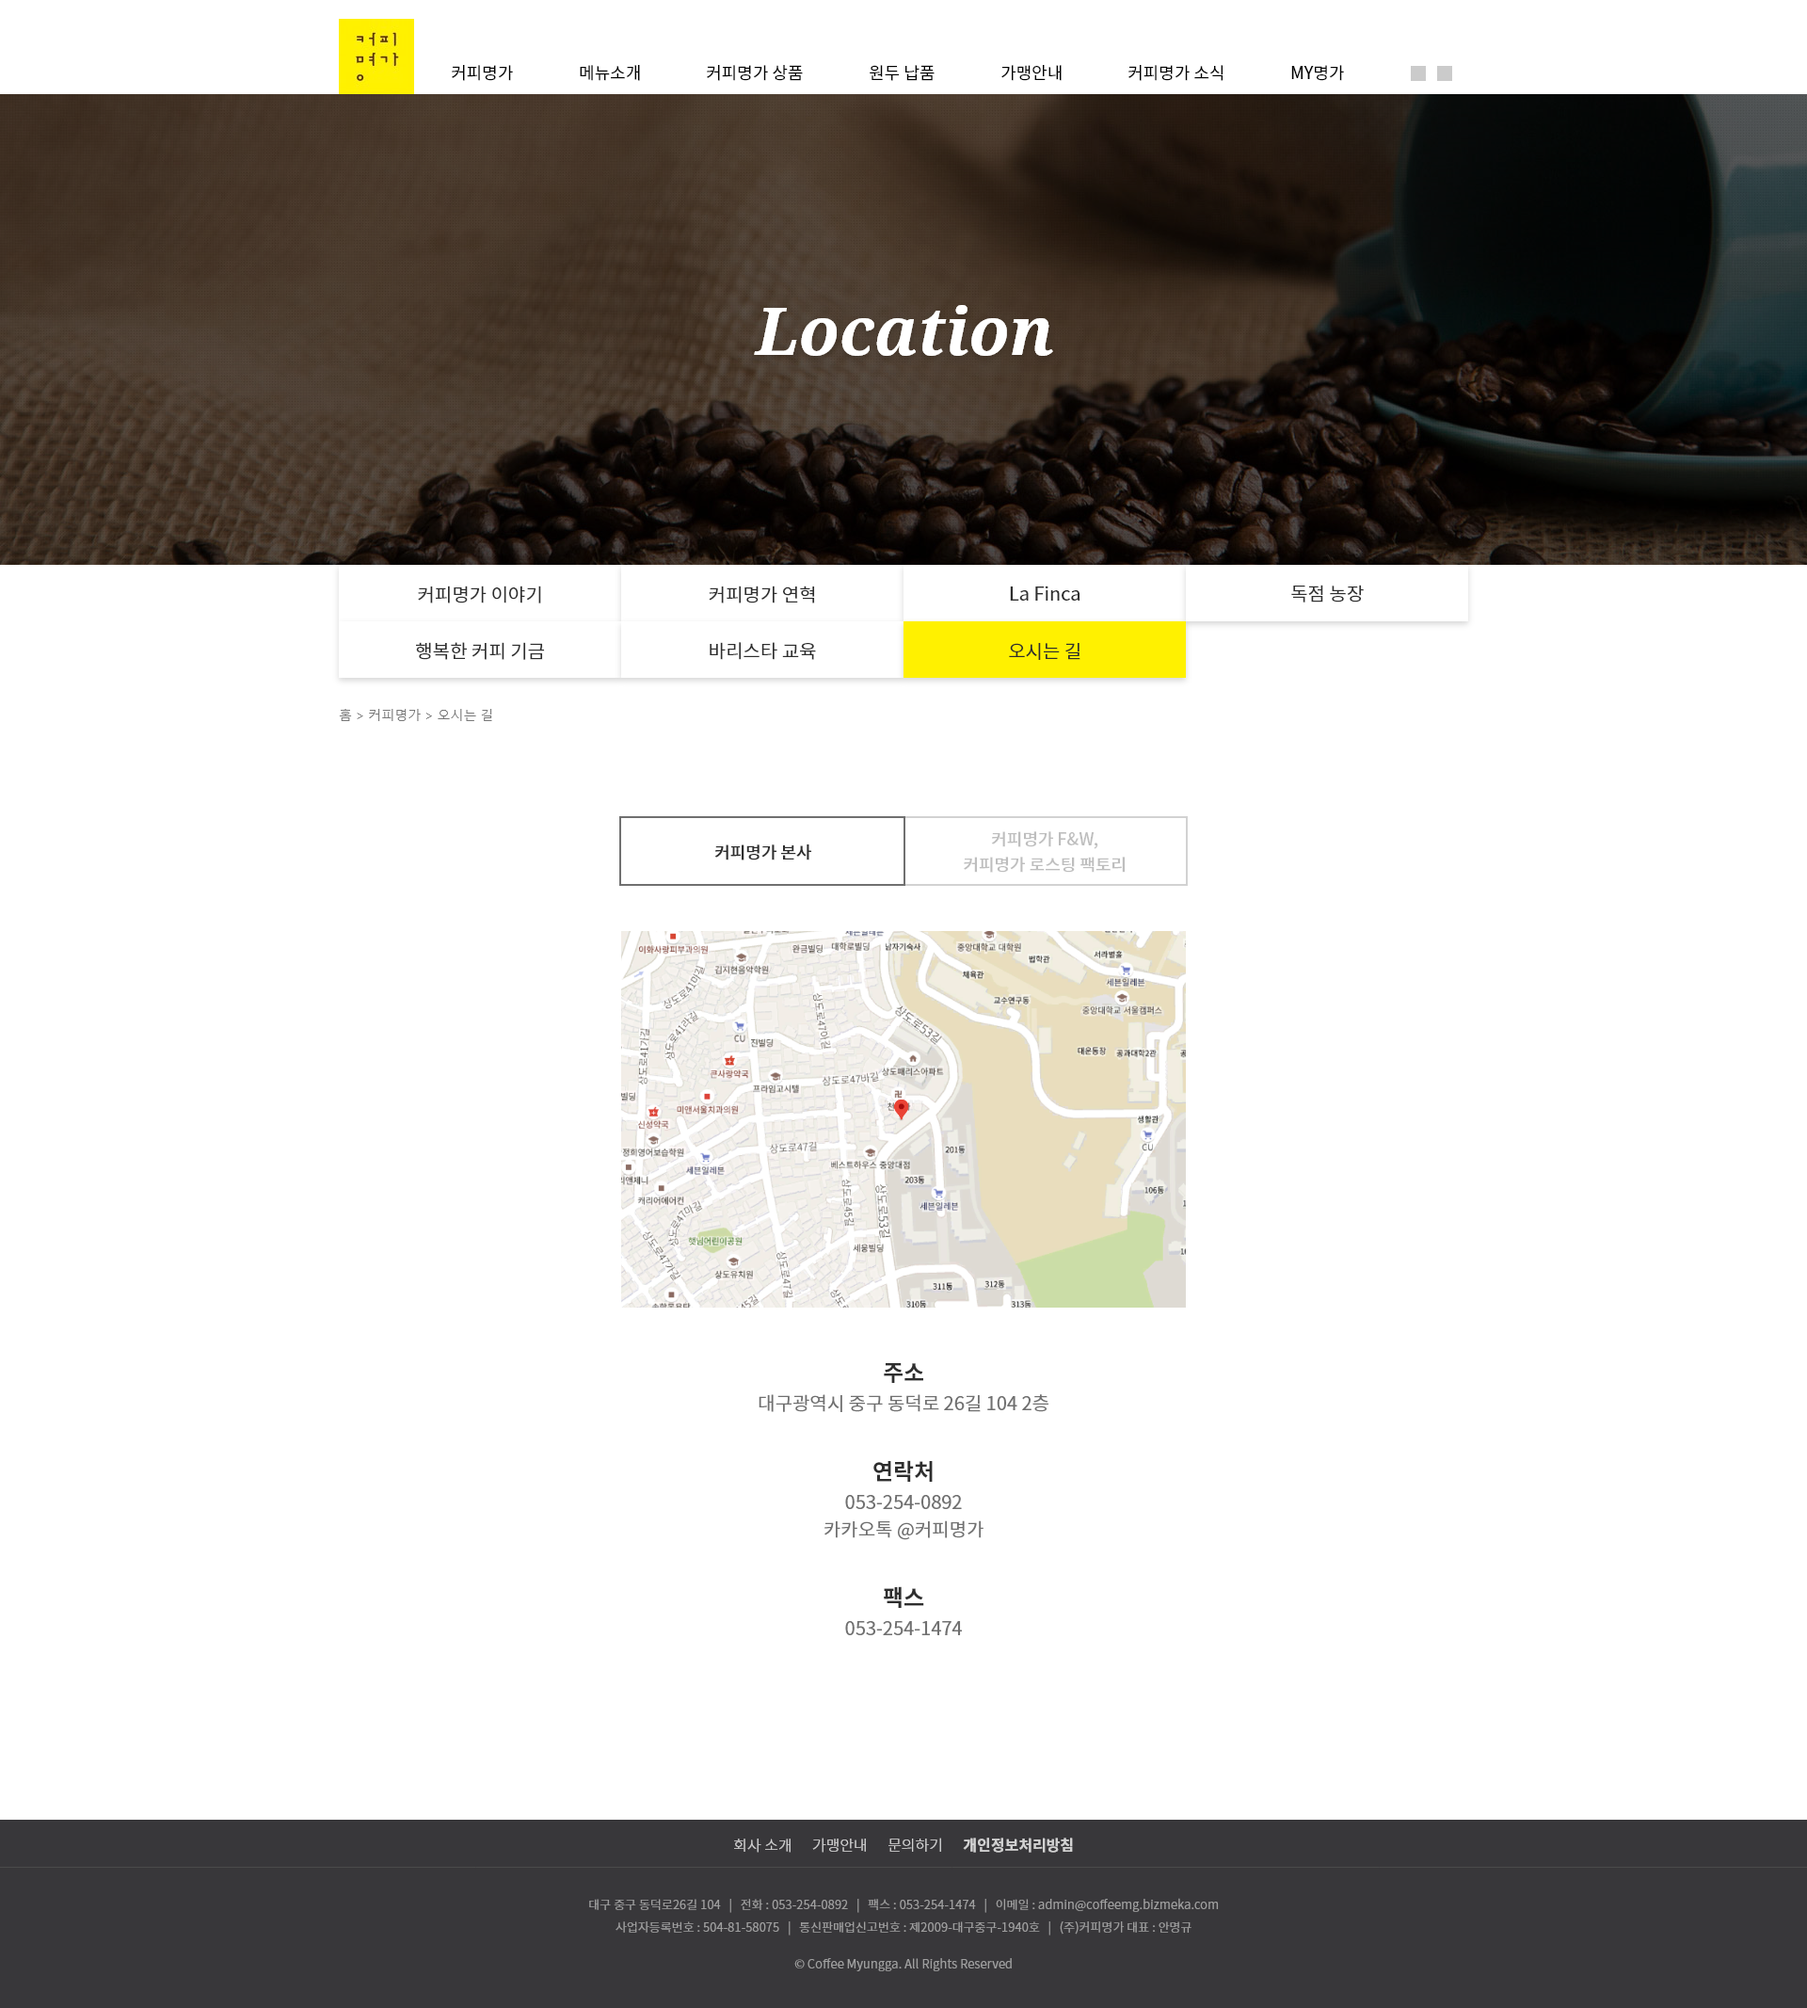
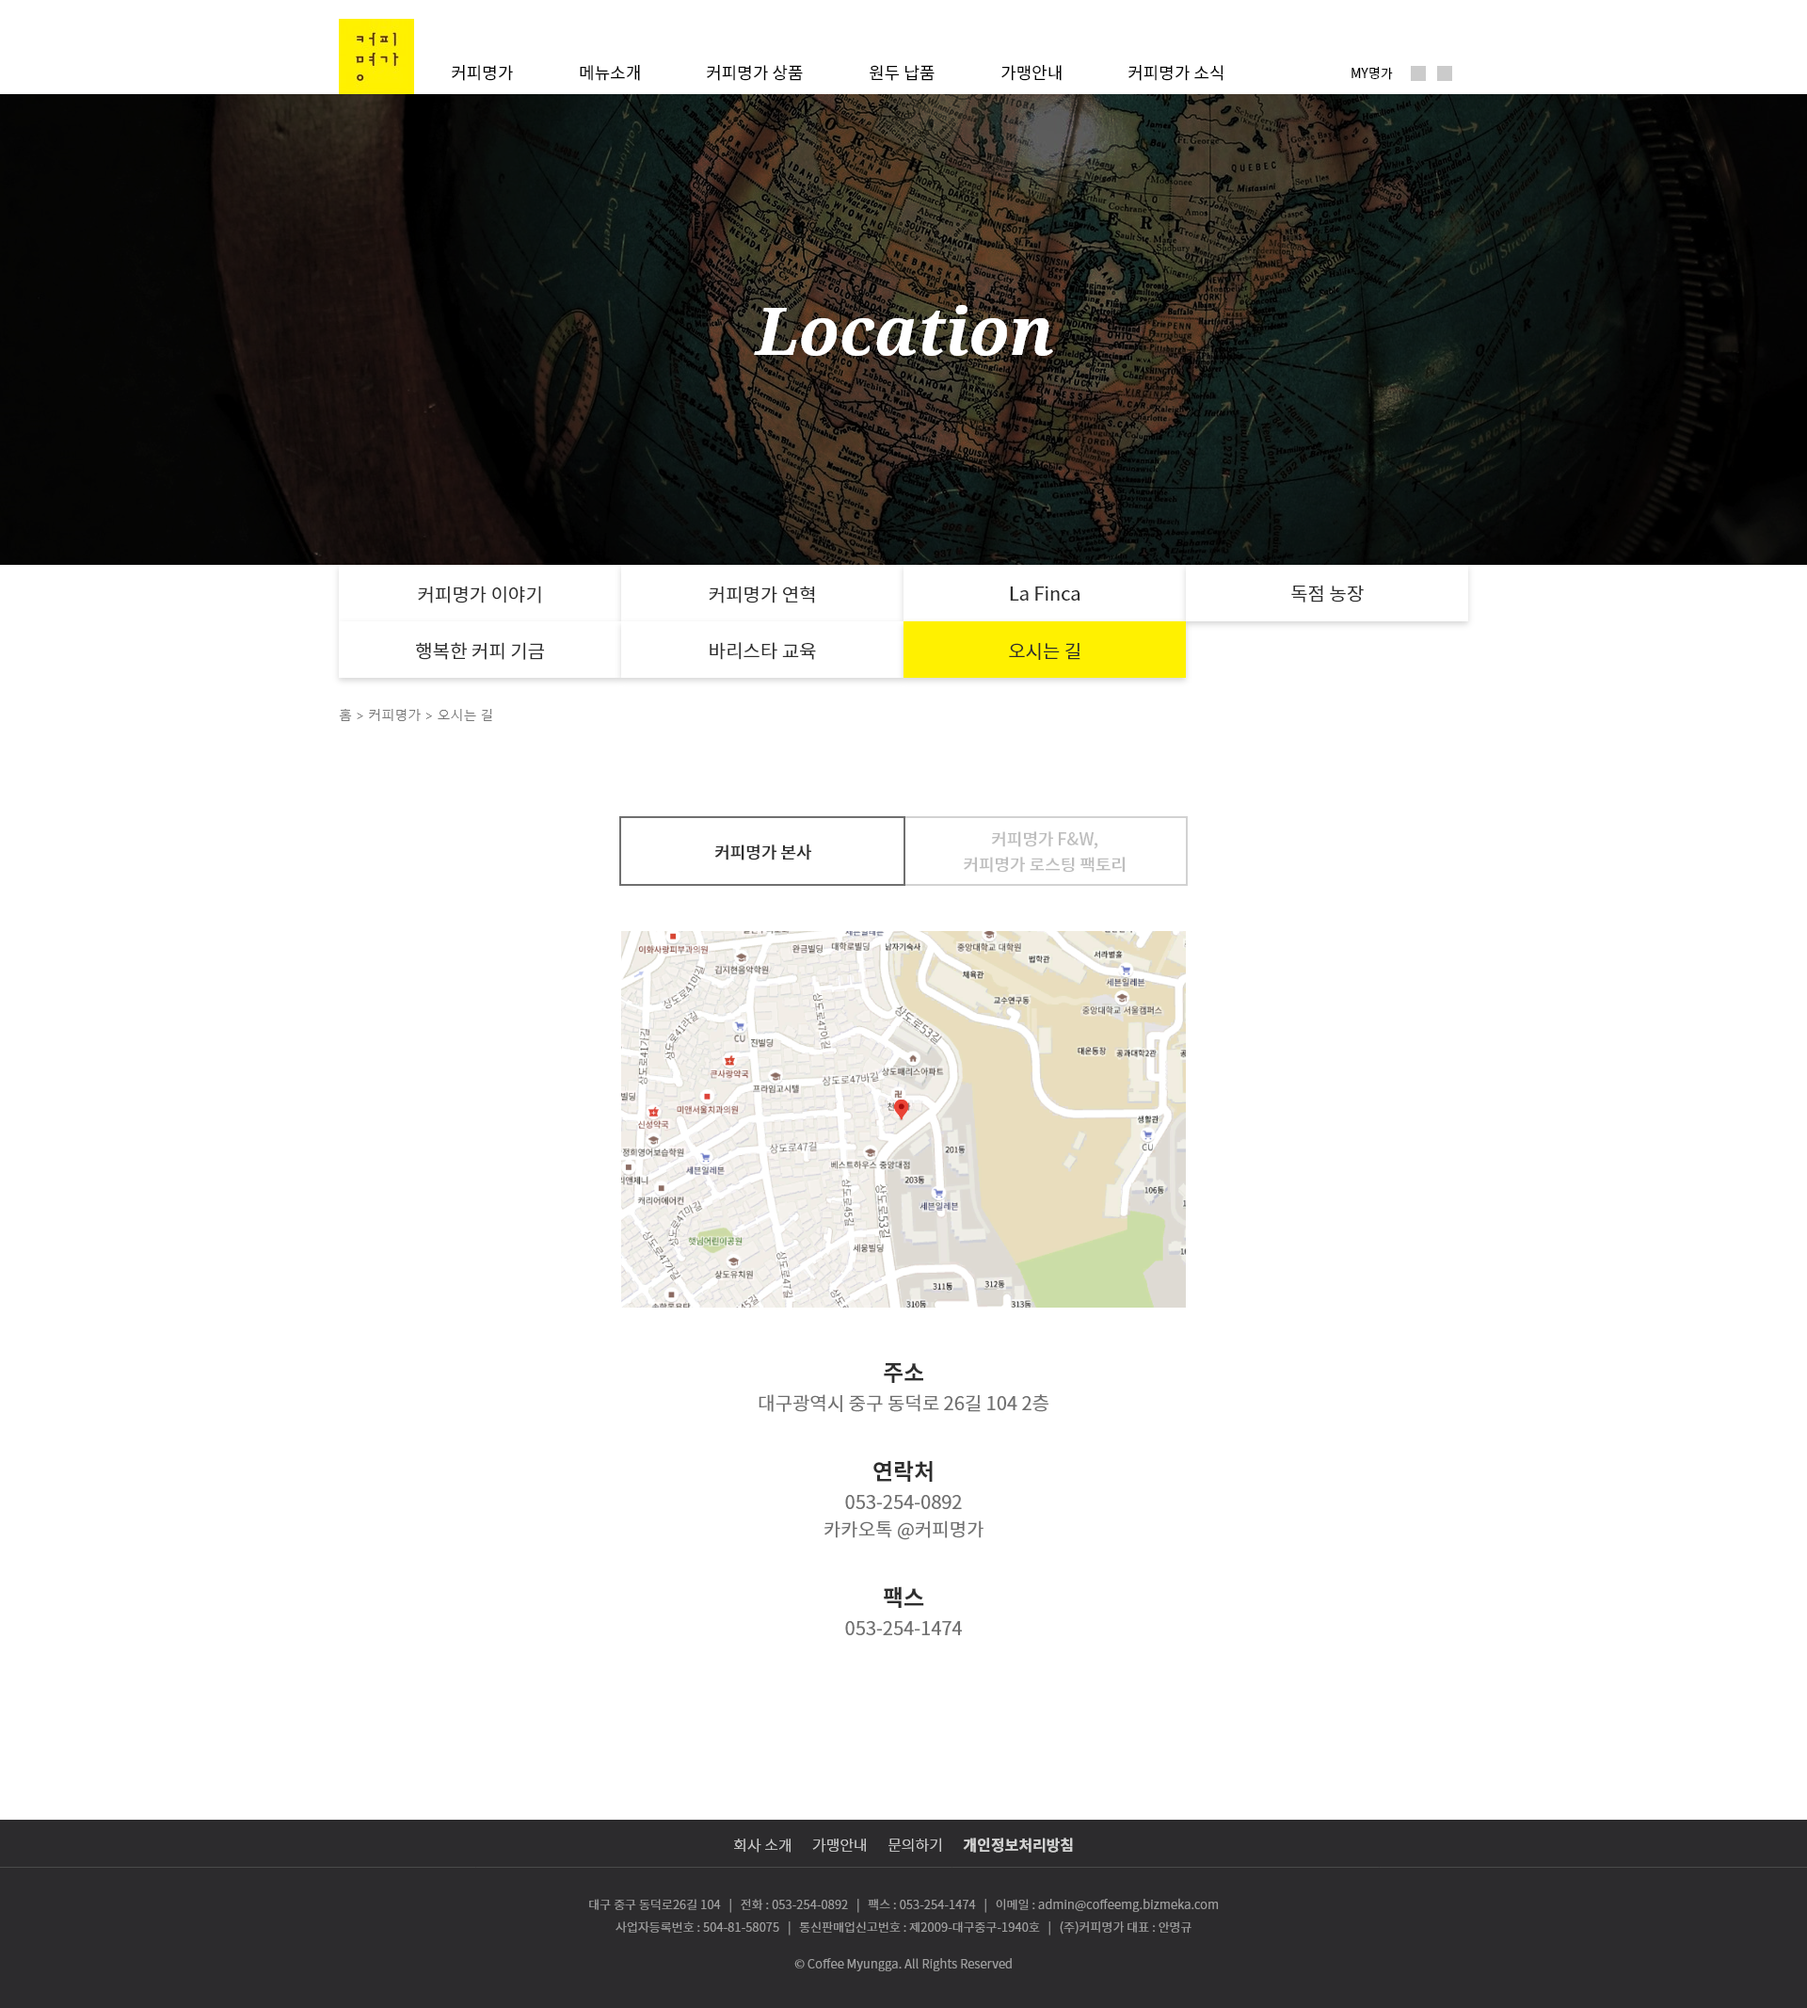
6차 평가

Changed region(s): [[0.0, 0.0309, 1.0, 0.2785]]

diff --git a/css/style.css b/css/style.css
@@ -4,9 +4,8 @@
 커피명가
 
 메인 컬러: #fff102 (yellow) - 로고 bg
-서브 컬러: #522c00 (brown) - 로고 글씨
-          #883d1f (brown) - 하단영역 bg
-footer 컬러: #2b2822
+서브 컬러: #52362A (brown)
+footer 컬러: #2C2B2D;
 */
 
 * {
@@ -65,13 +64,13 @@ h2 {
 #gnb {
     /* outline: 1px solid red; */
     font-size: 18px;
-    font-weight: 300;
+    font-weight: 400;
     position: absolute;
     top: 52px;
     left: 130px;
     /* transform: translateX(-50%); */
     z-index: 9999; 
-    width: 1000px;
+    width: 1020px;
 }
 
 #gnb > ul.depth1 {
@@ -88,15 +87,15 @@ h2 {
   }
   
   #gnb > ul.depth1 > li:last-child {
-    padding-left: 20px;
-    /* font-weight: 700; */
-    font-weight: bold;
+    padding-left: 110px;
+    padding-right: 0;
+    /* font-weight: bold; */
 
   }
   
   
   #gnb .depth1 > li > a {
-    /* color: #9c929c; */
+    color: #2e2e2e;
     width: 120px;
     height: 50px;
     line-height: 50px;
@@ -107,6 +106,14 @@ h2 {
 #gnb .depth1 > li > a:hover {
   border-bottom: 4px solid #fff102;
   font-weight: bold;
+}
+
+#gnb .depth1 > li:last-child {
+  font-size: 14px;
+}
+
+#gnb .depth1 > li:last-child > a {
+  width: 70px;
 }
 
 /* 2depth menu */
@@ -130,8 +137,8 @@ h2 {
 #gnb .depth2 > li > a {
     display: block;
     padding-top: 14px;
-    /* color: #522C00; */
-    font-weight: 300;
+    color: #2e2e2e;
+    font-weight: 400;
 }
 
 #gnb .depth2 > li > a:hover {
@@ -296,7 +303,6 @@ padding: 0 2px;
     border-radius: 50%;
     position: relative;
     background: #FFF100;
-    color: #522C00;
     text-align: center;
     margin-bottom: 30px;
     line-height: 100px;
@@ -308,9 +314,9 @@ padding: 0 2px;
   margin: 0 auto;
   height: 30px;
   border-radius: 0px;
-  border: 1px solid #522C00;
+  border: 1px solid #000;
   background: #fff;
-  color: #522C00;
+  color: #000;
   line-height: 26px;
   font-weight: 400;
 }

diff --git a/css/sub2_1.css b/css/sub2_1.css
@@ -10,7 +10,6 @@ sub2_1.css
   min-width: 1200px;
   height: 500px;
   margin: 0 auto;
-  /* overflow: hidden; */
   margin-bottom: 0px;
   position: relative;
 }
@@ -64,8 +63,8 @@ height: 500px;
   text-align: center;
   line-height: 60px;
   background: #fff;
-  color:#522C00;
 }
+
 #lnb li:last-child {
   margin-right: 0;
 }
@@ -81,12 +80,12 @@ height: 500px;
   background: #FFF100;
 }
 
+
 /* breadcrumb */
 .breadcrumbs {
   width: 1200px;
   margin: 0 auto;
   color: #787878;
-  /* text-align: right; */
   text-align: left;
   padding-bottom: 100px;
 }
@@ -97,7 +96,6 @@ height: 500px;
 
 section h3 {
   font-size: 40px;
-  /* color: #565656; */
   color: #2e2e2e;
   }
 
@@ -122,7 +120,6 @@ section > hr {
   /* outline: 1px solid red; */
   float: left;
   margin: 0 50px;
-  /* margin-top: 50px; */
   height: 300px;
   width: 200px;
   font-size: 20px;
@@ -141,7 +138,7 @@ section > hr {
 #season_btn {
   width: 46px;
   height: 46px;
-  background: #522C00;
+  background:#52362A;
   color: #fff;
   font-size: 11px;
   border-radius: 50%;
@@ -158,10 +155,6 @@ section > hr {
   /* outline: 1px solid green; */
   padding: 0 50px;
   margin-bottom: 100px;
-}
-
-#coffee_sec2 > div{
-  /* text-align: left; */
 }
 
 #coffee_sec2 > ul {

diff --git a/sub2_1.html b/sub2_1.html
@@ -17,7 +17,6 @@
 
   <!--사용자 자바스크립트-->
   <script src="./js/main.js"></script>
-  <script src="./js/sub2_2.js"></script>
 </head>
 
 <body>
@@ -209,7 +208,7 @@
           Kenya AA Kii
         </p>
         <p class="taste">
-          겉포도, 블랙커런트를 연상시키는 풍미<br>
+          건포도, 블랙커런트를 연상시키는 풍미<br>
           밀크초콜릿의 달콤함, 부드러운 산미
         </p>
       </li>

diff --git a/css/sub1_7.css b/css/sub1_7.css
@@ -67,7 +67,6 @@ section > img {
     text-align: center;
     line-height: 60px;
     background: #fff;
-    color:#522C00;
 }
 #lnb li:last-child {
     margin-right: 0;

diff --git a/css/sub1_1.css b/css/sub1_1.css
@@ -73,7 +73,6 @@ height: 500px;
   text-align: center;
   line-height: 60px;
   background: #fff;
-  color:#522C00;
 }
 #lnb li:last-child {
   margin-right: 0;
